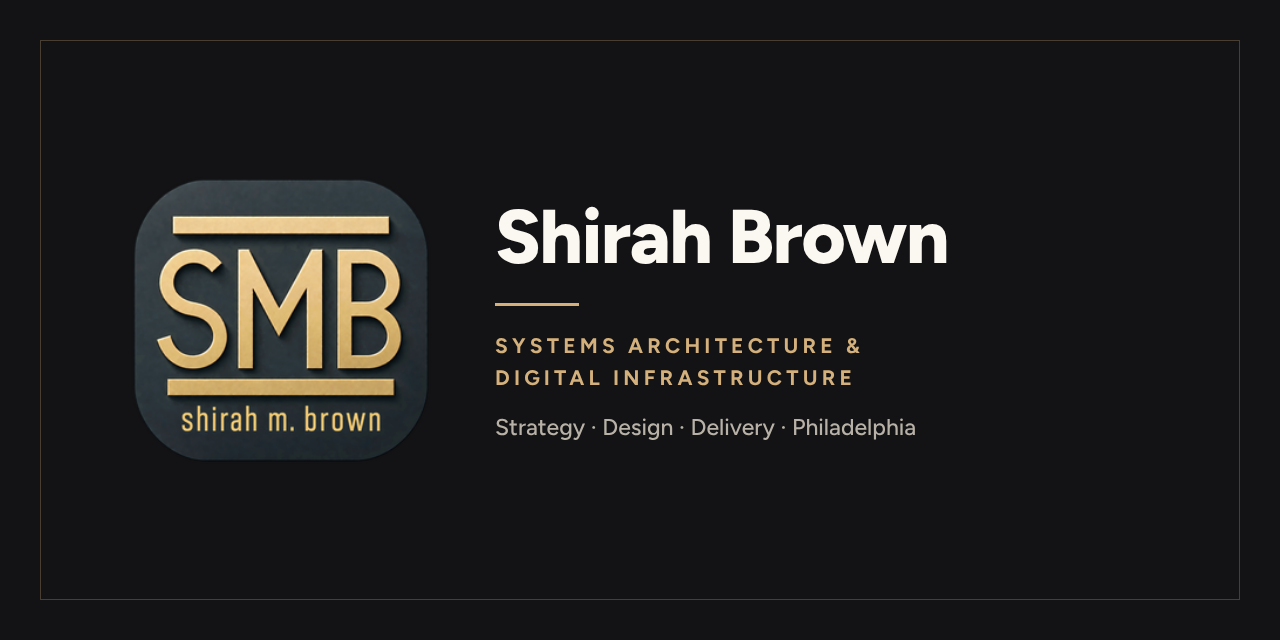
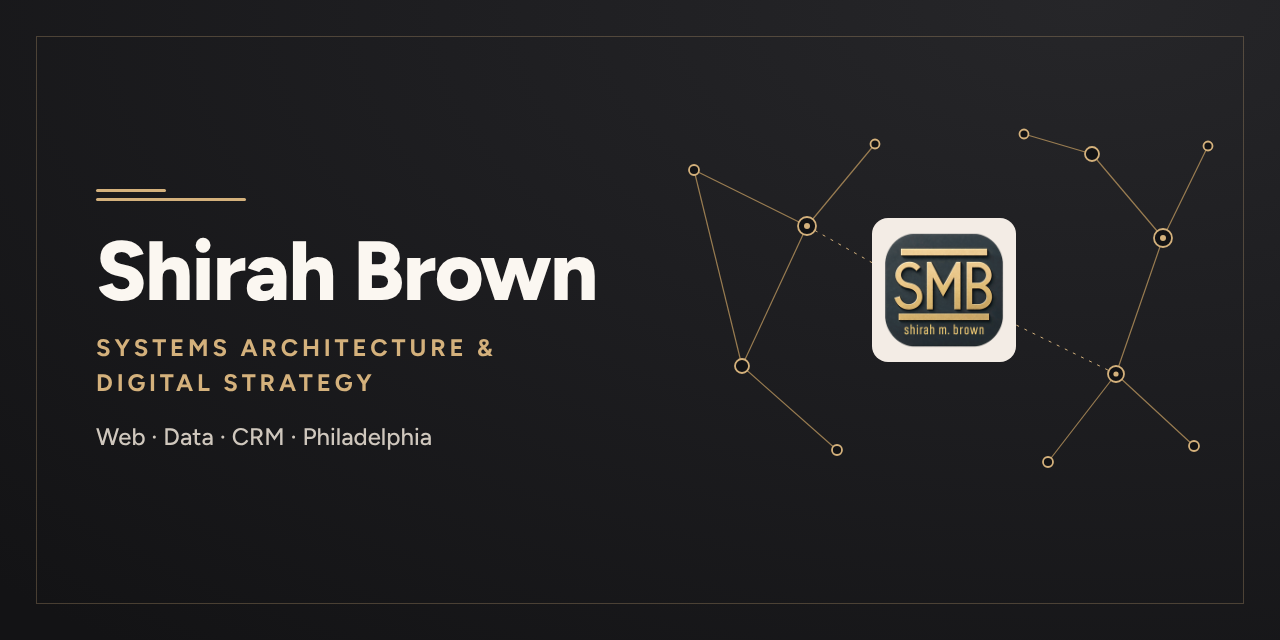
New constellation share card; add structured data; bump sitemap date
Claude-Session: https://claude.ai/code/session_01MTQusJfYi53oKeQi9UWXTv

diff --git a/index.html b/index.html
@@ -12,11 +12,11 @@
 <meta property="og:url" content="https://shirahbrown.com">
 <meta property="og:title" content="Shirah Brown — Systems Architecture &amp; Digital Strategy">
 <meta property="og:description" content="I turn ambiguous organizational problems into executable systems — digital strategy, websites, CRM, data and automation, and the operating model that holds them together.">
-<meta property="og:image" content="https://shirahbrown.com/assets/social-card.png?v=2">
+<meta property="og:image" content="https://shirahbrown.com/assets/social-card.png?v=3">
 <meta name="twitter:card" content="summary_large_image">
 <meta name="twitter:title" content="Shirah Brown — Systems Architecture &amp; Digital Strategy">
 <meta name="twitter:description" content="I turn ambiguous organizational problems into executable systems — digital strategy, websites, CRM, data and automation, and the operating model that holds them together.">
-<meta name="twitter:image" content="https://shirahbrown.com/assets/social-card.png?v=2">
+<meta name="twitter:image" content="https://shirahbrown.com/assets/social-card.png?v=3">
 <link rel="preconnect" href="https://fonts.googleapis.com">
 <link rel="preconnect" href="https://fonts.gstatic.com" crossorigin>
 <link href="https://fonts.googleapis.com/css2?family=Figtree:wght@400;500;600;700;800;900&display=swap" rel="stylesheet">
@@ -240,6 +240,12 @@
   .jump svg{width:18px;height:18px}
   @media(max-width:640px){.jump{right:14px;bottom:16px}.jump a{width:40px;height:40px}}
 </style>
+<script type="application/ld+json">
+{"@context":"https://schema.org","@graph":[
+ {"@type":"Person","@id":"https://shirahbrown.com/#shirah","name":"Shirah M. Brown","alternateName":"Shirah Brown","url":"https://shirahbrown.com/","image":"https://shirahbrown.com/assets/shirah-m-brown-portrait.jpg","jobTitle":"Systems Architect & Digital Strategist","email":"mailto:shirah.m.brown@outlook.com","address":{"@type":"PostalAddress","addressLocality":"Philadelphia","addressRegion":"PA","addressCountry":"US"},"sameAs":["https://www.linkedin.com/in/shirahbrown/"],"alumniOf":[{"@type":"CollegeOrUniversity","name":"Manhattan University"},{"@type":"CollegeOrUniversity","name":"Rutgers University"}],"knowsAbout":["Systems architecture","Digital strategy","Website design","Salesforce","CRM","Data and analytics","Workflow automation"]},
+ {"@type":"ProfessionalService","@id":"https://shirahbrown.com/#practice","name":"SMB Consulting","url":"https://shirahbrown.com/","logo":"https://shirahbrown.com/assets/logo-smb-shirah.png","image":"https://shirahbrown.com/assets/social-card.png","founder":{"@id":"https://shirahbrown.com/#shirah"},"email":"mailto:shirah.m.brown@outlook.com","areaServed":{"@type":"City","name":"Philadelphia"},"address":{"@type":"PostalAddress","addressLocality":"Philadelphia","addressRegion":"PA","addressCountry":"US"},"description":"Systems architecture and digital strategy: websites, email, analytics, CRM and automation."}
+]}
+</script>
 </head>
 <body>
 
